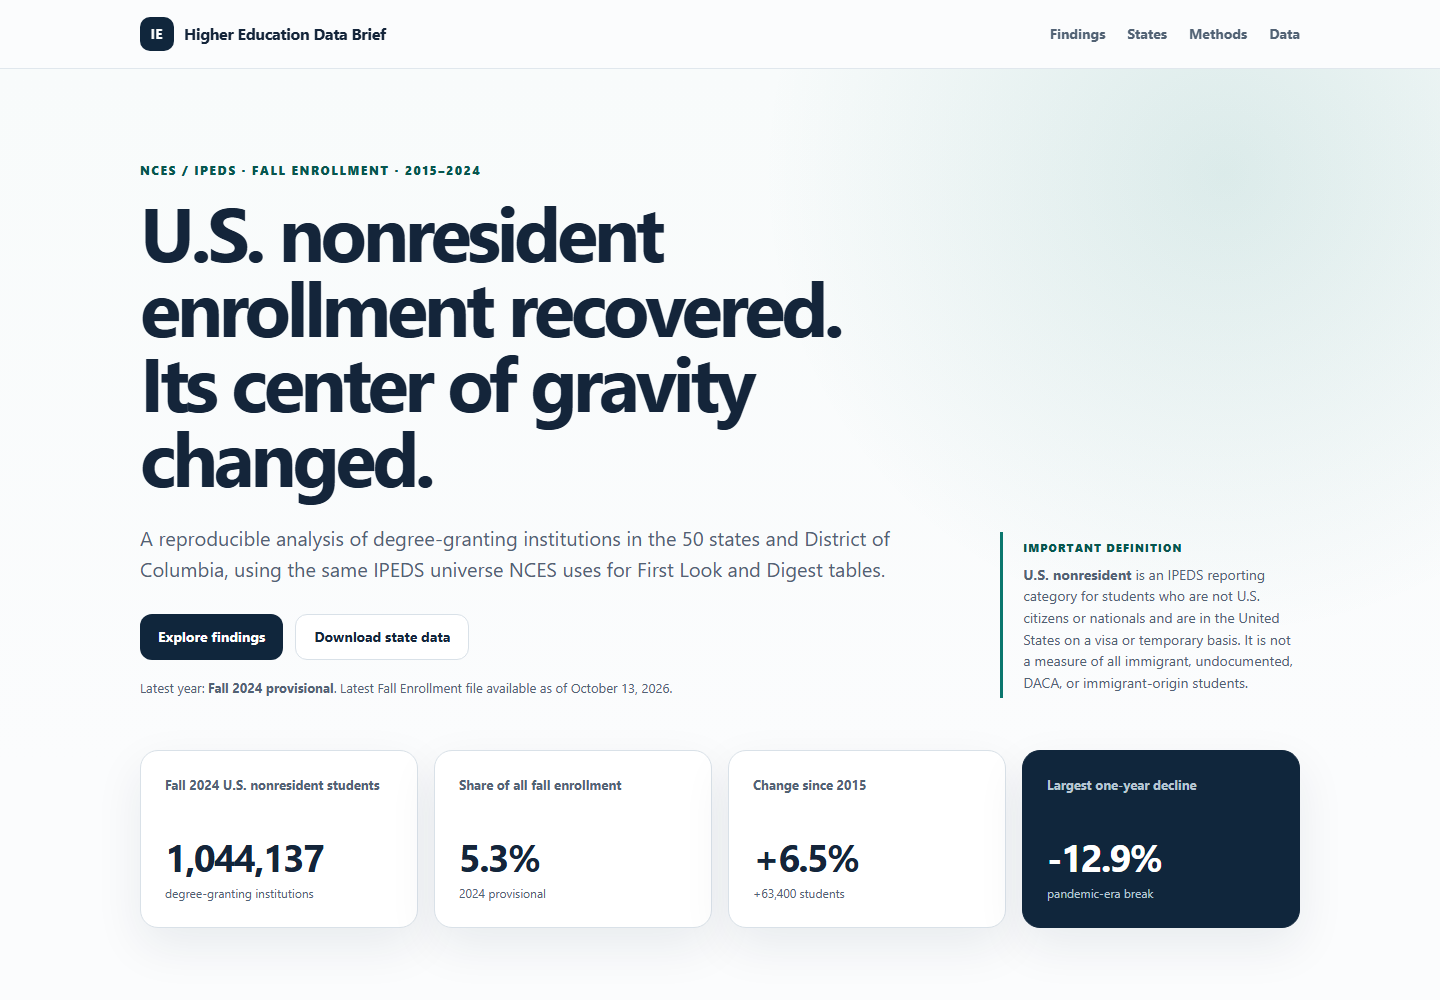
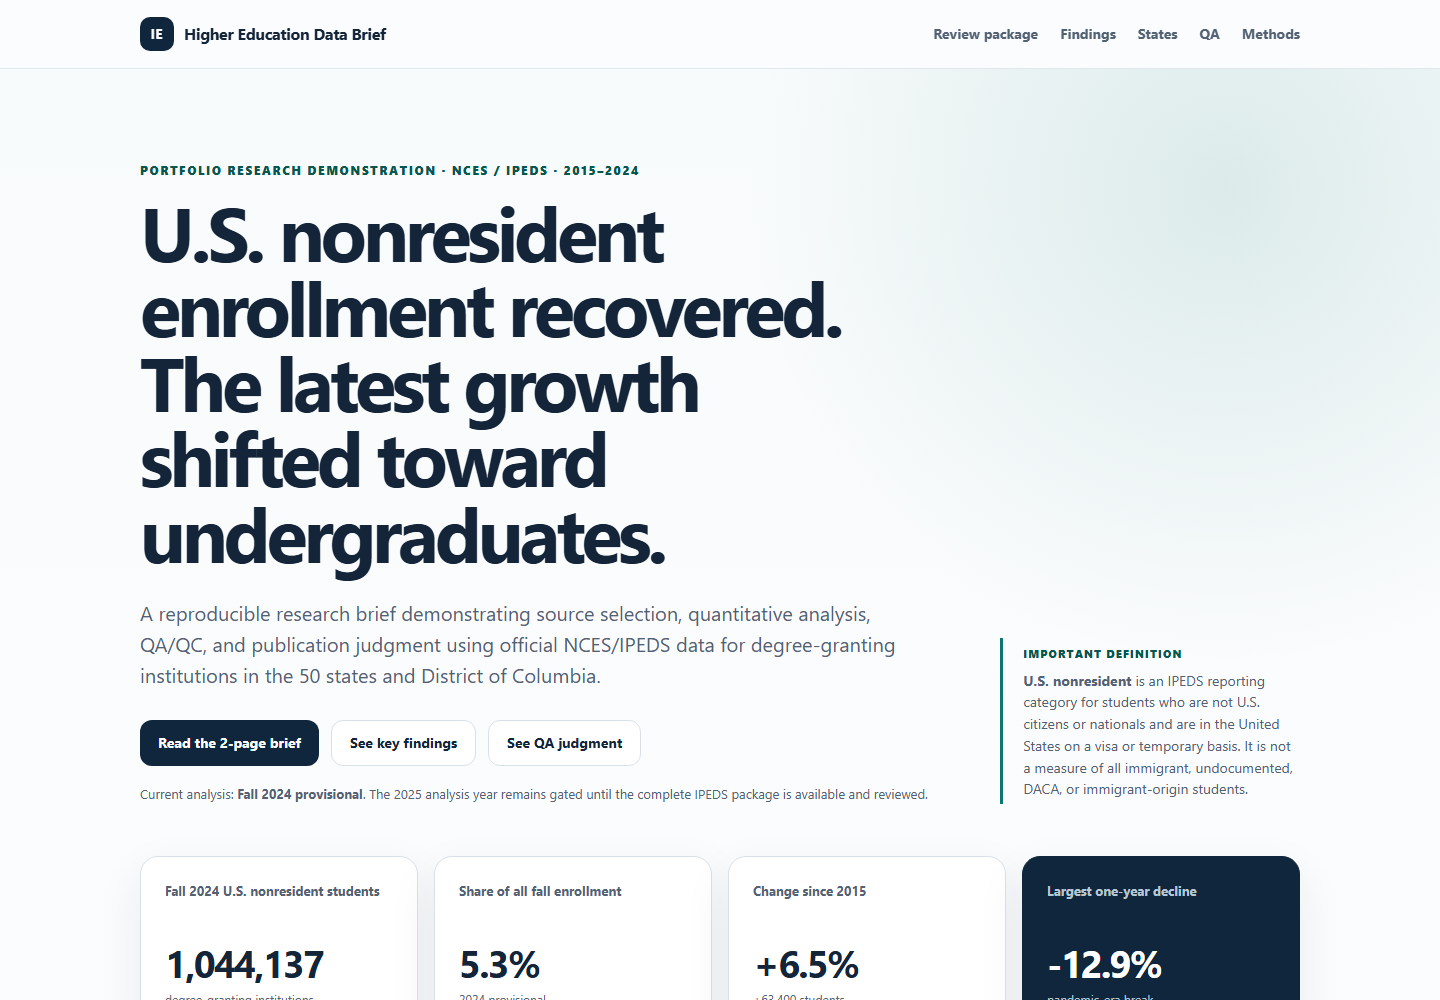
Condense GitHub reviewer landing page

diff --git a/tests/test_research_product.py b/tests/test_research_product.py
@@ -1679,6 +1679,21 @@ class ResearchProductTests(unittest.TestCase):
             validation,
         )
 
+    def test_readme_preserves_compact_reviewer_path(self) -> None:
+        readme = (ROOT / "README.md").read_text(encoding="utf-8")
+        self.assertLessEqual(len(readme.splitlines()), 100)
+        start_here = readme.split("## Start here", 1)[1].split("## Research question", 1)[0]
+        numbered_steps = re.findall(r"^\d+\. ", start_here, flags=re.MULTILINE)
+        self.assertEqual(len(numbered_steps), 3)
+        for expected in (
+            "Live research publication",
+            "deliverables/research_brief.pdf",
+            "deliverables/management_briefing_deck.pptx",
+            "deliverables/ipeds_portfolio_analysis.xlsx",
+            "site/sql-analysis.html",
+        ):
+            self.assertIn(expected, readme)
+
     def test_ad_hoc_analysis_casebook_is_reproducible_and_explicitly_simulated(self) -> None:
         case_rows = rows(ROOT / "data" / "ad_hoc_analysis_results.csv")
         self.assertEqual([row["case_id"] for row in case_rows], ["A01", "A02", "A03"])

diff --git a/README.md b/README.md
@@ -1,8 +1,6 @@
 # U.S. Nonresident Students in Higher Education
 
-Portfolio research project analyzing national and state-level enrollment trends for U.S. nonresident students in American higher education using the U.S. Department of Education's Integrated Postsecondary Education Data System (IPEDS).
-
-The project is designed as a compact, reproducible research product rather than a generic dashboard. It emphasizes source quality, data definitions, QA/QC, methodological documentation, clear writing, and communication of limitations.
+Portfolio research demonstration using NCES/IPEDS Fall Enrollment data to show end-to-end higher-education research work: source selection, reproducible analysis, QA/QC, methodological judgment, and communication for nontechnical readers.
 
 ![Research brief preview](docs/assets/research-brief-preview.png)
 
@@ -10,132 +8,55 @@ The project is designed as a compact, reproducible research product rather than 
 
 ## Start here
 
-If you are reviewing this as a work sample, the core case should be clear in about five minutes:
+The core work sample is designed to be reviewable in about five minutes:
 
-1. **[Live research publication](https://joseph-th.github.io/higher_education_and_immigration_demo/)** — scan the headline findings, state explorer, and latest-release QA judgment.
+1. **[Live research publication](https://joseph-th.github.io/higher_education_and_immigration_demo/)** — headline findings, state analysis, and visible latest-release QA judgment.
 2. **[`deliverables/research_brief.pdf`](deliverables/research_brief.pdf)** — two-page research/writing sample with findings, limitations, and source/QA trail.
 3. **[`deliverables/management_briefing_deck.pptx`](deliverables/management_briefing_deck.pptx)** — five-slide management briefing built from the same validated outputs.
 
-For a technical check, open **[`deliverables/ipeds_portfolio_analysis.xlsx`](deliverables/ipeds_portfolio_analysis.xlsx)** or **[`site/sql-analysis.html`](site/sql-analysis.html)**. The rest of the repository is supporting audit trail and reproducibility evidence, not required reading.
-
-See [`docs/REVIEWER_GUIDE.md`](docs/REVIEWER_GUIDE.md) for the compact reviewer path and role-to-evidence map.
+For a technical check, open **[`deliverables/ipeds_portfolio_analysis.xlsx`](deliverables/ipeds_portfolio_analysis.xlsx)** or **[`site/sql-analysis.html`](site/sql-analysis.html)**. The rest of the repository is supporting evidence, not required reading.
 
 ## Research question
 
 How did fall enrollment of U.S. nonresident students change across the United States from 2015 through 2024, and how did those changes vary by state and student level?
 
-## What is included
+## What this demonstrates
 
-- **Research publication:** an interactive national/state brief plus a two-page PDF writing sample.
-- **Management communication:** a five-slide PowerPoint briefing built from the same validated findings.
-- **Technical analysis:** a formula-driven Excel workbook, executable SQL analysis, and reproducible Python pipeline.
-- **QA/QC evidence:** cross-year schema checks, arithmetic reconciliation, 24 independent NCES benchmark checks, and evidence-backed review of high- and medium-priority institution anomalies.
-- **Methodological judgment:** explicit population/source boundaries so IPEDS U.S. nonresident, SEVIS international, immigrant-origin, undocumented, pipeline, and refugee/asylee measures are not treated as interchangeable.
-- **Publication discipline:** source lineage, claim-level holds, release-readiness controls, and a governed public output tree.
+| Capability | Evidence |
+| --- | --- |
+| Research and source selection | Official NCES/IPEDS files, cross-year schema review, population/source crosswalk |
+| Quantitative analysis | National, state, student-level, institutional-control, and institution-continuity analysis |
+| QA/QC and judgment | Arithmetic reconciliation, 24 NCES benchmark checks, evidence-backed anomaly review, explicit claim holds |
+| Excel / SQL / Python | Formula-driven workbook, executable SQL query pack, reproducible Python pipeline |
+| Research writing | Two-page brief and public research memo |
+| Leadership communication | Five-slide management briefing |
+| Publication discipline | Source lineage, release readiness, claim-level controls, governed public outputs |
 
-Detailed supporting artifacts remain under `docs/`, `data/`, and `site/` for technical or audit review. They are intentionally secondary to the brief, live publication, management deck, workbook, and SQL sample.
+The primary population is the IPEDS **U.S. nonresident** reporting category. It is not treated as interchangeable with all international, immigrant-origin, undocumented, DACA, refugee/asylee, or other noncitizen populations.
 
-## Data
+## Data and method
 
-Primary source: National Center for Education Statistics (NCES), Integrated Postsecondary Education Data System (IPEDS).
+- **Source:** National Center for Education Statistics, Integrated Postsecondary Education Data System (IPEDS).
+- **Coverage:** Fall 2015 through Fall 2024, 50 states + DC.
+- **Universe:** degree-granting institutions in the IPEDS First Look/Digest Title IV selection.
+- **Core inputs:** `EF2015A`–`EF2024A` Fall Enrollment files and same-year `HD` institutional directory files.
+- **Raw archives:** reproducibly downloaded from NCES and excluded from Git; tracked manifests preserve source URLs, retrieval metadata, file sizes, and SHA-256 hashes.
 
-Initial source tables:
+Method definitions and interpretation boundaries are documented in [`docs/METHODOLOGY.md`](docs/METHODOLOGY.md) and [`docs/POPULATION_CROSSWALK.md`](docs/POPULATION_CROSSWALK.md).
 
-- `EF2015A` through `EF2024A`: Fall Enrollment by race/ethnicity, gender, attendance status, and student level.
-- `HD2015` through `HD2024`: Institutional directory information used for institution name, state, and other institutional attributes.
+## Reproduce and verify
 
-Raw source files are downloaded directly from NCES and are intentionally excluded from Git because they are reproducible and comparatively large. A tracked source manifest records the source URL, file size, SHA-256 hash, and retrieval time for every downloaded archive.
-
-## Reproduce the source-data collection
-
-From the repository root:
-
-```bash
-python scripts/fetch_ipeds.py
-```
-
-The script downloads the official data archives and data dictionaries for 2015-2024, verifies that each response is a valid ZIP archive, extracts it under `data/raw/ipeds/`, and writes `data/source_manifest.csv`.
-
-To reproduce the cross-year schema audit:
+Install the core dependencies, fetch the official source package, and run the authoritative offline rebuild:
 
 ```bash
 python -m pip install -r requirements.txt
-python scripts/audit_ipeds_schema.py
-```
-
-The audit verifies the required enrollment and directory variables, confirms the aggregation labels used by the analysis, prefers revised historical CSVs when NCES provides them, and writes `data/schema_audit.csv`.
-
-Build the normalized analysis outputs and public-site data:
-
-```bash
-python scripts/build_analysis.py
-python scripts/build_sql_analysis.py
-python scripts/build_ad_hoc_analysis.py
-python scripts/build_state_recovery_analysis.py
-python scripts/build_undergraduate_shift_baseline.py
-python scripts/build_planning_scenarios.py
-python scripts/build_candidate_directory_preflight.py
-python scripts/build_candidate_directory_change_review.py
-python scripts/build_update_review.py
-python scripts/build_medium_priority_review.py
-python scripts/build_qa_resolution_log.py
-python scripts/build_high_priority_category_diagnostic.py
-python scripts/build_medium_qa_resolution_log.py
-python scripts/build_medium_priority_category_diagnostic.py
-python scripts/build_candidate_year_qa_watchlist.py
-python scripts/build_freshness_monitor.py
-python scripts/build_private_nonprofit_analysis.py
-python scripts/build_research_library.py
-python scripts/build_source_update_triage.py
-python scripts/build_undocumented_pipeline.py
-python scripts/build_population_crosswalk.py
-python scripts/build_population_trends.py
-python scripts/build_recurring_report_register.py
-python scripts/validate_production_cycle_log.py
-python scripts/build_production_cycle.py
-python scripts/build_research_agenda.py
-python scripts/summarize_findings.py
-python scripts/validate_benchmarks.py
-python scripts/build_state_profiles.py
-python scripts/build_briefing_note.py
-python scripts/build_research_memo.py
-python scripts/build_publication_handoff.py
-python scripts/build_release_readiness.py
-python scripts/build_data_governance.py
-python scripts/build_site_data.py
-```
-
-The public analysis uses degree-granting institutions in the IPEDS First Look/Digest Title IV universe (`DEGGRANT=1` and `PSET4FLG` in `1,3`) located in the 50 states and District of Columbia. This selection makes the headline national total directly benchmarkable against NCES Digest tables.
-
-For the complete offline rebuild and validation path, run:
-
-```bash
+python scripts/fetch_ipeds.py
 python scripts/validate_project.py
 ```
 
-That command compiles the Python code, reruns the schema audit, rebuilds all derived data, reruns 24 NCES Digest consistency checks, regenerates the public site data, and runs the repository test suite.
+`validate_project.py` reruns the schema audit, rebuilds derived outputs, executes the SQL and analytical checks, validates against NCES benchmarks, rebuilds publication data, and runs the repository test suite. A successful run ends with `VALIDATION PASS`.
 
-The PDF brief is a downstream publication artifact rather than an analytical input. When the research memo changes, regenerate it after installing the optional Playwright dependency:
-
-```bash
-python -m pip install -r requirements-dev.txt
-python -m playwright install chromium
-python scripts/build_pdf_brief.py
-python scripts/validate_project.py
-```
-
-`deliverables/research_brief_manifest.json` records the exact memo SHA-256 used to create the PDF. Repository validation fails if the committed PDF no longer matches the current generated memo.
-
-The PowerPoint deck is also a downstream publication artifact. After installing `requirements-dev.txt`, regenerate it with:
-
-```bash
-python scripts/build_management_deck.py
-python scripts/validate_project.py
-```
-
-`deliverables/management_briefing_manifest.json` binds the five-slide PPTX to the current deck builder and validated CSV/JSON sources by SHA-256.
-
-For browser-level publication QA, install the optional development dependency and Chromium once, then run:
+For browser/publication QA:
 
 ```bash
 python -m pip install -r requirements-dev.txt
@@ -143,79 +64,20 @@ python -m playwright install chromium
 python scripts/browser_smoke.py
 ```
 
-The browser smoke test serves the built site on an ephemeral local port, renders desktop and mobile viewports, checks calculated values and interactive elements, verifies public downloads, detects JavaScript/console errors, and checks for unintended page-level horizontal overflow.
+The browser lane renders desktop and mobile layouts, exercises interactive elements, verifies public downloads, and checks for browser errors and horizontal overflow.
 
-Live source-health checks remain separate from offline validation:
+See [`TESTING.md`](TESTING.md) and [`docs/VALIDATION.md`](docs/VALIDATION.md) for the complete verification contract. Annual update and deployment procedures live in [`docs/UPDATE_PLAYBOOK.md`](docs/UPDATE_PLAYBOOK.md) and [`docs/DEPLOYMENT.md`](docs/DEPLOYMENT.md).
 
-```bash
-python scripts/check_for_new_release.py
-python scripts/check_candidate_directory.py
-python scripts/check_research_library.py
-python scripts/check_population_crosswalk.py
-python scripts/check_qa_evidence.py
-```
+## Go deeper only if useful
 
-The live checks verify the maintained Research Library, the population-crosswalk methodology sources, and the external evidence links used by the manual QA resolution layer. They are intentionally separate from the offline reproducibility build. Script-blocking HTTP 401/403 responses are surfaced as access restrictions requiring manual browser review rather than misclassified as dead links.
+- [`docs/REVIEWER_GUIDE.md`](docs/REVIEWER_GUIDE.md) — compact reviewer path and role-to-evidence map.
+- [`docs/FINDINGS.md`](docs/FINDINGS.md) — current analytical findings and exact supporting figures.
+- [`docs/QA_RESOLUTION_LOG.md`](docs/QA_RESOLUTION_LOG.md) and [`docs/MEDIUM_QA_RESOLUTION_LOG.md`](docs/MEDIUM_QA_RESOLUTION_LOG.md) — evidence-backed institution-level publication decisions.
+- [`docs/SQL_ANALYSIS.md`](docs/SQL_ANALYSIS.md) — six read-only SQL queries and independent reconciliations.
+- [`docs/EXCEL_WORKBOOK.md`](docs/EXCEL_WORKBOOK.md) — workbook structure, formula-driven review, and authority boundary.
+- [`docs/RELEASE_READINESS.md`](docs/RELEASE_READINESS.md) — current-publication readiness separated from candidate-year advancement.
+- [`docs/DATA_GOVERNANCE.md`](docs/DATA_GOVERNANCE.md) — public-release allowlist and data-minimization controls.
 
-## Documentation
+## Status boundary
 
-- [`docs/PROJECT_BRIEF.md`](docs/PROJECT_BRIEF.md): scope, audience, questions, and deliverables.
-- [`docs/DATA_SOURCES.md`](docs/DATA_SOURCES.md): source inventory and release notes.
-- [`docs/METHODOLOGY.md`](docs/METHODOLOGY.md): definitions, analytic unit, QA/QC plan, and limitations.
-- [`docs/POPULATION_CROSSWALK.md`](docs/POPULATION_CROSSWALK.md): generated source-selection crosswalk for distinct immigration-related student populations.
-- [`docs/RECURRING_REPORT_REGISTER.md`](docs/RECURRING_REPORT_REGISTER.md): recurring-report intake, methodology review, QA gate, publication, and handoff model for the three products named in the target role.
-- [`docs/PRODUCTION_CYCLE.md`](docs/PRODUCTION_CYCLE.md): generated seven-stage partner-production controls, product kickoff packet, and live-cycle log handling rules.
-- [`docs/VARIABLE_MAPPING.md`](docs/VARIABLE_MAPPING.md): verified cross-year variables and aggregation codes.
-- [`docs/DATA_DICTIONARY.md`](docs/DATA_DICTIONARY.md): definitions for generated analysis and audit outputs.
-- [`docs/VALIDATION.md`](docs/VALIDATION.md): implemented QA checks and independent NCES benchmark.
-- [`docs/FINDINGS.md`](docs/FINDINGS.md): current analytical findings with exact supporting figures.
-- [`docs/LATEST_UPDATE_REVIEW.md`](docs/LATEST_UPDATE_REVIEW.md): generated review of the newest annual release and its QA queue.
-- [`docs/QA_RESOLUTION_LOG.md`](docs/QA_RESOLUTION_LOG.md): evidence-backed analyst dispositions for the complete current high-priority annual QA queue.
-- [`docs/HIGH_PRIORITY_CATEGORY_DIAGNOSTIC.md`](docs/HIGH_PRIORITY_CATEGORY_DIAGNOSTIC.md): internal IPEDS category-countermovement reconciliation for the 27 high-priority records, with a non-correction and non-clearance boundary.
-- [`docs/MEDIUM_PRIORITY_REVIEW.md`](docs/MEDIUM_PRIORITY_REVIEW.md): current medium-priority QA routing by existing trigger type, mixed-direction accounting, candidate-directory overlap, and evidence-review boundary.
-- [`docs/MEDIUM_QA_RESOLUTION_LOG.md`](docs/MEDIUM_QA_RESOLUTION_LOG.md): evidence-backed analyst dispositions for all 50 current medium-priority QA records, including scope caveats and next-release revalidation.
-- [`docs/MEDIUM_PRIORITY_CATEGORY_DIAGNOSTIC.md`](docs/MEDIUM_PRIORITY_CATEGORY_DIAGNOSTIC.md): internal IPEDS category-countermovement reconciliation for all 50 medium-priority records, with routing and evidence decisions kept separate from the arithmetic signal.
-- [`docs/RESEARCH_MEMO.md`](docs/RESEARCH_MEMO.md): concise reviewer-facing writing sample built from validated findings and QA decisions.
-- [`docs/BRIEFING_NOTE.md`](docs/BRIEFING_NOTE.md): generated stakeholder briefing with implications, monitoring questions, and interpretation boundaries.
-- [`docs/EXCEL_WORKBOOK.md`](docs/EXCEL_WORKBOOK.md): workbook contents, authority boundaries, QA features, and maintenance notes.
-- [`docs/POWERPOINT_DECK.md`](docs/POWERPOINT_DECK.md): management-deck contents, authority boundary, freshness manifest, and rebuild instructions.
-- [`docs/SQL_ANALYSIS.md`](docs/SQL_ANALYSIS.md): generated SQL query catalog, sample results, and independent reconciliation checks.
-- [`docs/AD_HOC_ANALYSIS.md`](docs/AD_HOC_ANALYSIS.md): simulated one-off management questions, compact answers, source authorities, and case-level reconciliation checks.
-- [`docs/STATE_RECOVERY_ANALYSIS.md`](docs/STATE_RECOVERY_ANALYSIS.md): 2019-2024 state recovery decomposition, institution concentration, reconciliation controls, and interpretation boundaries.
-- [`docs/UNDERGRADUATE_SHIFT_BASELINE.md`](docs/UNDERGRADUATE_SHIFT_BASELINE.md): fixed 2023-2024 R01 baseline, annual context, breadth/concentration measures, and next-release persistence rule.
-- [`docs/PRIVATE_NONPROFIT_GROWTH.md`](docs/PRIVATE_NONPROFIT_GROWTH.md): 2015-2024 private-nonprofit institution-contribution concentration analysis with student-level reconciliation and latest-release QA gates.
-- [`docs/POPULATION_TREND_COMPARISON.md`](docs/POPULATION_TREND_COMPARISON.md): bounded national comparison of IPEDS U.S. nonresident, immigrant-origin, and undocumented higher-education measures with explicit source-vintage breaks and non-addability rules.
-- [`docs/UNDOCUMENTED_PIPELINE_CONTEXT.md`](docs/UNDOCUMENTED_PIPELINE_CONTEXT.md): bounded 2023 state context comparing undocumented annual high-school graduate flow with undocumented higher-education enrollment stock without treating their ratio as a transition rate.
-- [`docs/PLANNING_SCENARIOS.md`](docs/PLANNING_SCENARIOS.md): forecast-vs-actual backtest, data-derived planning scenarios, assumptions, and interpretation boundary.
-- [`docs/FRESHNESS_MONITOR.md`](docs/FRESHNESS_MONITOR.md): dated next-release availability, year-advance gate, source-review state, and recurring-product monitoring triggers.
-- [`docs/CANDIDATE_DIRECTORY_PREFLIGHT.md`](docs/CANDIDATE_DIRECTORY_PREFLIGHT.md): bounded 2025 directory/dictionary compatibility review, frame continuity, hashes, schema delta, and no-year-advance boundary.
-- [`docs/CANDIDATE_DIRECTORY_CHANGE_REVIEW.md`](docs/CANDIDATE_DIRECTORY_CHANGE_REVIEW.md): hashed institution-level candidate-directory entry/exit and attribute-change queue with current-year exposure and no-future-enrollment interpretation boundary.
-- [`docs/CANDIDATE_YEAR_QA_WATCHLIST.md`](docs/CANDIDATE_YEAR_QA_WATCHLIST.md): reconciled current/candidate institution review union with cross-signal overlaps, carry-forward actions, and explicit revalidation boundaries.
-- [`docs/SOURCE_UPDATE_TRIAGE.md`](docs/SOURCE_UPDATE_TRIAGE.md): R07 source-change routing with complete Research Library coverage, escalation rules, and portfolio/non-affiliation boundaries.
-- [`docs/RESEARCH_AGENDA.md`](docs/RESEARCH_AGENDA.md): prioritized research questions, data needs, methods, outputs, and decision rules.
-- [`docs/RESEARCH_LIBRARY.md`](docs/RESEARCH_LIBRARY.md): generated human-readable view of the structured source library.
-- [`docs/PUBLICATION_HANDOFF.md`](docs/PUBLICATION_HANDOFF.md): generated pre-publication claim/QA/disclosure handoff register.
-- [`docs/RELEASE_READINESS.md`](docs/RELEASE_READINESS.md): consolidated current-release and candidate-year control matrix with explicit blocking scope.
-- [`docs/DATA_GOVERNANCE.md`](docs/DATA_GOVERNANCE.md): public-release allowlist, data-minimization rules, and restricted-data handling boundary.
-- [`docs/REVIEWER_GUIDE.md`](docs/REVIEWER_GUIDE.md): short portfolio walkthrough and evidence map for hiring/research reviewers.
-- [`docs/UPDATE_PLAYBOOK.md`](docs/UPDATE_PLAYBOOK.md): annual release/update procedure.
-- [`docs/DATA_CALENDAR.md`](docs/DATA_CALENDAR.md): current coverage and next-release monitoring.
-- [`docs/DEPLOYMENT.md`](docs/DEPLOYMENT.md): current GitHub Pages publication procedure plus optional Cloudflare Pages setup.
-- [`data/README.md`](data/README.md): data directory conventions.
-
-## Current status
-
-README does not maintain a second copy of mutable findings, QA dispositions, release counts, or verification totals. Use the owning authority for the current state:
-
-| Question | Current authority |
-| --- | --- |
-| What does the analysis currently conclude? | [`docs/FINDINGS.md`](docs/FINDINGS.md) plus the topic-specific generated analyses linked in [Documentation](#documentation) |
-| Which institution-level claims are publishable, held, or context-limited? | [`docs/QA_RESOLUTION_LOG.md`](docs/QA_RESOLUTION_LOG.md), [`docs/MEDIUM_QA_RESOLUTION_LOG.md`](docs/MEDIUM_QA_RESOLUTION_LOG.md), and [`docs/RELEASE_READINESS.md`](docs/RELEASE_READINESS.md) |
-| What is the current next-release / year-advance state? | [`docs/FRESHNESS_MONITOR.md`](docs/FRESHNESS_MONITOR.md) and the candidate-year preflight/watchlist documents |
-| Which research questions are complete, open, or awaiting new data? | [`docs/RESEARCH_AGENDA.md`](docs/RESEARCH_AGENDA.md) |
-| Which sources, definitions, vintages, and update routes apply? | [`docs/POPULATION_CROSSWALK.md`](docs/POPULATION_CROSSWALK.md), [`docs/RESEARCH_LIBRARY.md`](docs/RESEARCH_LIBRARY.md), and [`docs/SOURCE_UPDATE_TRIAGE.md`](docs/SOURCE_UPDATE_TRIAGE.md) |
-| What is cleared for publication? | [`docs/PUBLICATION_HANDOFF.md`](docs/PUBLICATION_HANDOFF.md), [`docs/DATA_GOVERNANCE.md`](docs/DATA_GOVERNANCE.md), and [`docs/RELEASE_READINESS.md`](docs/RELEASE_READINESS.md) |
-| How is the current repository verified? | [`TESTING.md`](TESTING.md) and [`docs/VALIDATION.md`](docs/VALIDATION.md) |
-| How is the public site deployed? | [`docs/DEPLOYMENT.md`](docs/DEPLOYMENT.md) |
-
-The live site and deliverables listed in [Start here](#start-here) are downstream publication artifacts. Their presence does not override the analytical, QA, freshness, or governance authorities above. Version control owns prior release state; this README intentionally does not retain a running research or validation diary.
+The live site, PDF, PowerPoint, Excel workbook, and SQL page are downstream presentation artifacts. Validated CSV/JSON outputs and their owning QA/methodology controls remain authoritative. Current institution-specific claim holds are intentionally preserved rather than converted into unsupported narrative, and a partial next-year source package does not advance the configured analysis year.
